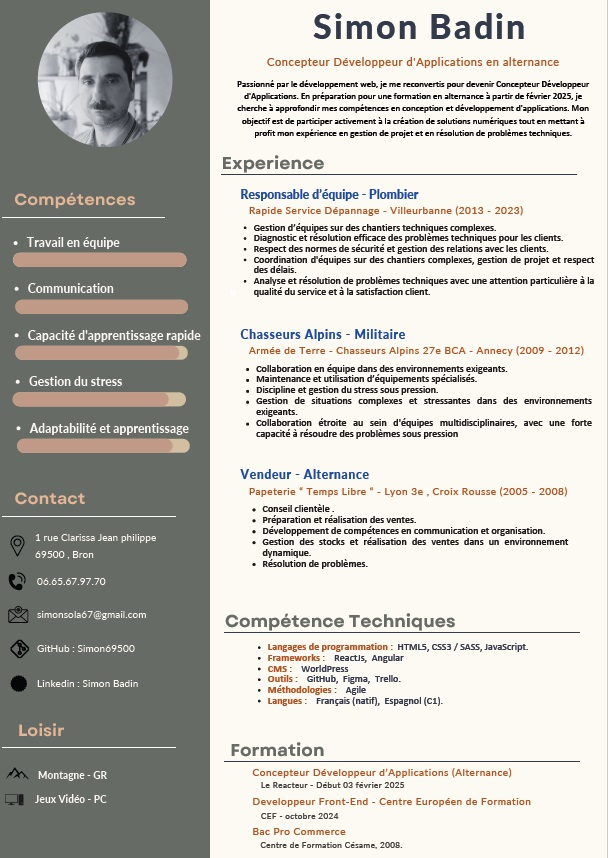
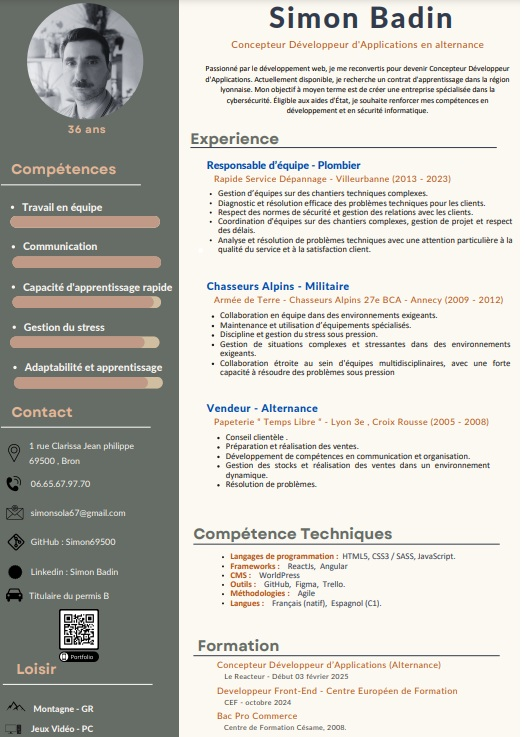
upgrade CV

diff --git a/src/sous-pages/Competences.jsx b/src/sous-pages/Competences.jsx
@@ -34,7 +34,7 @@ const Competences = () => {
                 {/* Partie CV */}
                 <div className="contenair-cv">
                     <h3 className="cv-title">Mon CV</h3>
-                    <a href="https://drive.google.com/file/d/1WezKAjfjamqCfPSN4Ke2mGqWt14Gz5HU/view?usp=sharing" target="_blank" rel="noopener noreferrer">
+                    <a href="https://drive.google.com/file/d/1tVnQ-su_ue9DA47dPphFf3M63Rk7922F/view?usp=sharing" target="_blank" rel="noopener noreferrer">
                         <img className="cv-img" src={CV} alt="présentation du CV" />
                     </a>
 
@@ -57,7 +57,7 @@ const Competences = () => {
                             color: "#172448",
                             margin: '10px',                         
                         }}
-                        href="https://drive.google.com/file/d/1WezKAjfjamqCfPSN4Ke2mGqWt14Gz5HU/view?usp=sharing"
+                        href="https://drive.google.com/file/d/1tVnQ-su_ue9DA47dPphFf3M63Rk7922F/view?usp=sharing"
                         download="CV-BADIN-Simon.pdf"
                         target='_blanck'
                     >
